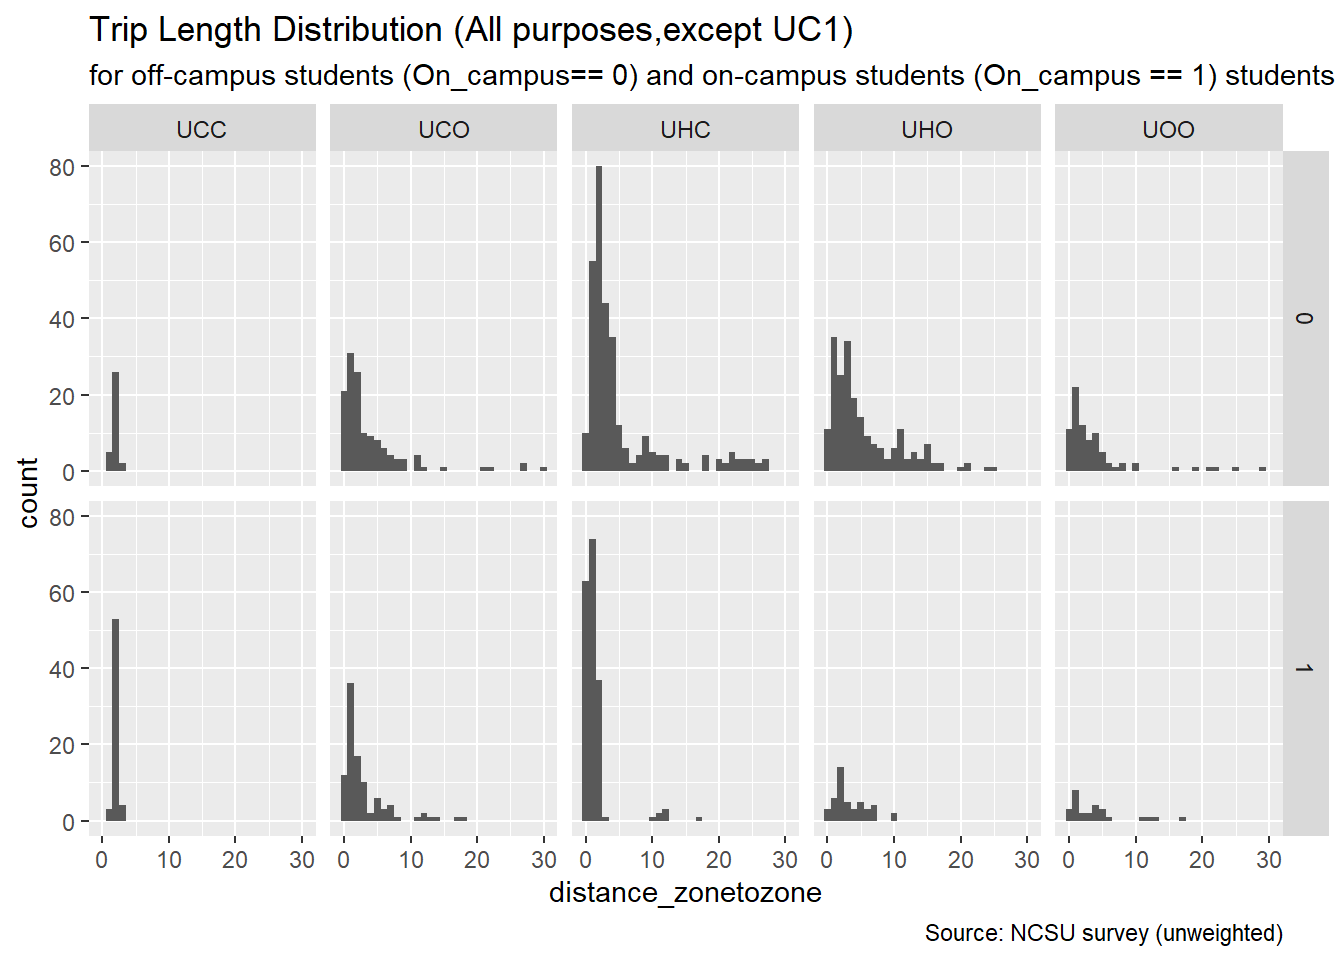
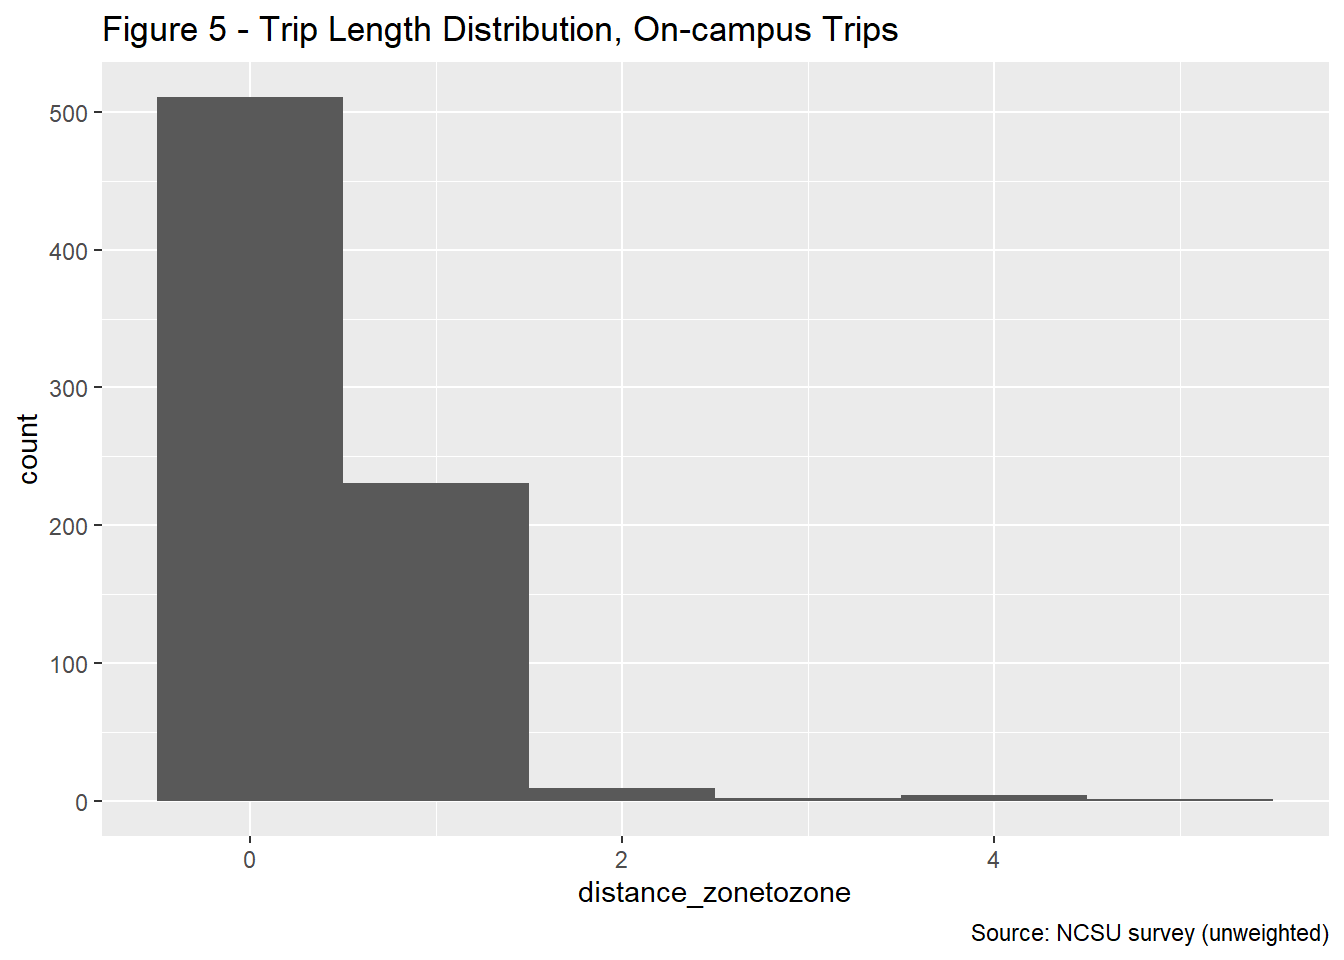
documentation update

diff --git a/docs/university.html b/docs/university.html
@@ -11,7 +11,7 @@
 
 <meta name="author" content="Caliper Corporation" />
 
-<meta name="date" content="2022-01-21" />
+<meta name="date" content="2022-01-25" />
 
 <title>University</title>
 
@@ -414,7 +414,7 @@ div.tocify {
 
 <h1 class="title toc-ignore">University</h1>
 <h4 class="author">Caliper Corporation</h4>
-<h4 class="date">January 21, 2022</h4>
+<h4 class="date">January 25, 2022</h4>
 
 </div>
 
@@ -435,7 +435,7 @@ div.tocify {
 </li>
 <li>University student Other-Other (Other-to-Other or UOO)</li>
 </ul>
-<p>The structure fully segments these trip purposes by on- and off-campus students. On-campus students are expected to make more trips, with many of those trips expected to start and end on campus. On-campus students are more likely to be undergraduate students who are enrolled at the university full-time. Graduate students are more likely to reside off-campus.</p>
+<p>The structure segments the home-based trip purposes, Home-Campus and Home-Other, by on- and off-campus students. On-campus students are expected to make more trips, with many of those trips expected to start and end on campus. On-campus students are more likely to be undergraduate students who are enrolled at the university full-time. Graduate students are more likely to reside off-campus.</p>
 <p>The first model step is <a href="https://tfresource.org/topics/Trip_Generation.html">trip generation</a>, which estimates the number of trips by market segment and purpose as a function of observed land use characteristics. The second model step is trip distribution, which uses a common <a href="https://tfresource.org/topics/Trip_distribution.html">gravity formulation</a> with distance as the measure of impedance. A <a href="https://tfresource.org/topics/Mode_choice.html">multinomial logit mode choice model</a> is then used to segment trips by travel mode. Time of day or “diurnal” factors are used to segment trips by time and day and convert the outcomes from production-attraction to origin-destination format. The university trips are then combined with trips from other model components prior to carrying out roadway and transit assignment.</p>
 <p>An innovative feature of the model design is the generation step for the Other-to-Other trip purpose. To maintain consistency across travel model, these trips are generated directly from the Home-based Other and Campus-based Other trip ends. The generation step is mode specific. For example, if all the Home-based Other and Campus-based Other trips select automobile, then only automobile Other-to-Other trips will be generated.</p>
 <p>The balance of this document first specifies each model component, presenting empirical evidence for each specification. In cases where insufficient data is available for the statistical estimation of model coefficients, coefficients are asserted, based on evidence for other travel purposes. For these asserted models, calibration targets are developed to guide the adjustment of constants to match observed outcomes.</p>
@@ -598,7 +598,7 @@ Origin
 </tr>
 </tbody>
 </table>
-<p>Figure 1 shows the average number of trips per student per day for the two home-based trip purposes for students residing on-campus and off-campus, based on the raw NCSU survey data. Figure 2 shows the average number of trips per student for the three campus-based trip purposes. For most trip purpose, the distribution is skewed to the right, with most students making few trips and a few students making many trips.</p>
+<p>Figure 1 shows the average number of trips per student per day for the two home-based trip purposes for students residing on-campus and off-campus, based on the raw NCSU survey data. Figure 2 shows the average number of trips per student for the three campus-based trip purposes. For most trip purposes, the distribution is skewed to the right, with most students making few trips and a few students making many trips. Trip rates tend to be higher for on-campus trips than for other trip purposes. On-campus trips also tend to be shorter than trip made for other purposes as shown below in the trip distribution section.</p>
 <p><img src="university_files/figure-html/histogram-1.png" width="672" /><img src="university_files/figure-html/histogram-2.png" width="672" /></p>
 <p>To develop production rates, two methods were explored/discussed: cross-classification and regression. Explanatory variables in regression models could include student characteristics such as class status (undergraduate and graduate), on and/or off-campus employment, credit hours (full-time or part-time), and car availability. These variables were expected, and/or shown by other research, to affect university trip production rates. However, using these variables would require that forecast year socio-economic datasets and/or upstream model steps included these variables, which is not currently expected. We therefore used cross-classification techniques, as discussed below.</p>
 <p>As part of the cross-classification approach, daily trips per student reported in the NCSU survey were classified based on the following criteria:</p>
@@ -1156,7 +1156,7 @@ Service Employment (Low)
 <div id="regression-models" class="section level4">
 <h4>Regression Models</h4>
 <p>The regression models were estimated for each purpose using a dataset that includes all TAZs for which the survey included trip attractions, of any purpose. The TAZs that do not have any trip attractions in the survey were excluded from the dataset used for model estimation.</p>
-<p>The Campus-other attraction model explains the number of trip attractions at the TAZ level based on the number of the students residing in the TAZ and the number of retail jobs in the TAZ. The coefficients have the expected signs.</p>
+<p>The Campus-other attraction model explains the number of trip attractions at the TAZ level based on the number of the students residing in the TAZ and the number of retail jobs in the TAZ. The coefficients have the correct expected signs.</p>
 <div id="campus-other-trip-attractions" class="section level5">
 <h5>Campus-Other Trip Attractions</h5>
 <table class="table" style="width: auto !important; margin-left: auto; margin-right: auto;">
@@ -1401,159 +1401,157 @@ NA
 </div>
 <div id="trip-distribution" class="section level2">
 <h2>Trip Distribution</h2>
-<p>The second step of the university model development process is to develop a trip distribution model. In this step, the TAZ level productions and attractions estimated in the trip generation step are allocated to TAZ pairs. The allocation is based on a gravity model that takes into account the distance between each of the TAZ pairs.</p>
-<p>A distance based gravity model is used to distribute the university trips from production zones to attraction zones. The specification of a gravity model is shown below:</p>
+<p>The second step of the University Model development process is to develop a trip distribution model. In this step, the TAZ level productions and attractions estimated in the trip generation step are allocated to TAZ pairs. The allocation is based on a gravity model that takes into account the distance between each of the TAZ pairs.</p>
+<p>A distance-based gravity model is used to distribute the university trips from production zones to attraction zones. The specification of a gravity model is shown below:</p>
 <p>T_ij = (P_i × A_j) / F_ij</p>
 <p>where T_ij denote the trips from production zone i to attraction zone j, P represents the trip productions, A represents the trip attractions, F is a measure of the separation between the production and attraction zones called a friction factor.</p>
-<p>Following standard practice it was assumed that the friction factors are a function of highway travel distance and that they follow a gamma distribution, as below:</p>
+<p>Following standard practice, it was assumed that the friction factors are a function of highway travel distance and that they follow a gamma distribution, as below:</p>
 <p>F(d) = α × d^(-β) × e^(-θd)</p>
-<p>For simplification, same gamma distribution is used for all university trip purpose, with α, β and θ as 5, 1 and 0.1 respectively.</p>
-<p>The NCSU survey provides information about the length of existing home-based and campus-based trips by NCSU students. The trip start and end location information from the survey was mapped to the model’s TAZs. The trip lengths presented in Figures 3 through 5 represent the distance between the centroids of the origin TAZ and the destination TAZ based on the highway skims. Figure 3 shows that most Home-Campus trips are relatively short distance but that there are some off-campus students who live further away from campus. Home-based trips by off-campus students are longer than home-based trips by on-campus students. Figure 4 shows that campus-based trips tend to be relatively short distance as well. Figure 5 shows that on-campus trips have both ends are within the same TAZ or within TAZs that are very near to each other. These observed trip lengths were used to validate the trip length produced with the gravity model as discussed below in the calibration section.</p>
+<p>For simplification and due to limited data, the same gamma distribution is used for all university trip purpose, with α, β and θ as 5, 1 and 0.1 respectively.</p>
+<p>The NCSU survey provides information about the length of existing home-based and campus-based trips by NCSU students. The trip start and end location information from the survey was mapped to the model’s TAZs. The trip lengths presented in Figures 3 through 5 represent the distance between the centroids of the origin TAZ and the destination TAZ based on the highway skims.</p>
 <div id="trip-length-distribution-from-the-ncsu-survey" class="section level3">
 <h3>Trip length distribution from the NCSU survey</h3>
-<p><img src="university_files/figure-html/unnamed-chunk-5-1.png" width="672" /><img src="university_files/figure-html/unnamed-chunk-5-2.png" width="672" /><img src="university_files/figure-html/unnamed-chunk-5-3.png" width="672" /></p>
-<div id="overview-trip-length-distribution-from-the-ncsu-survey-by-trip-purpose" class="section level4">
-<h4>Overview trip length distribution from the NCSU survey by trip purpose</h4>
+<p>Figure 3 shows that most Home-Campus trips have relatively short distance. The figure also highlights that there are a small number of off-campus students who live further away from campus. Figure 3 also displays for on-campus students making a home to campus trip that some trip lengths are over 10 miles, which could be an issue in geo-coding or a few students traveling to remote campuses/farms for coursework. Because of the relatively small sample, these anomalies were left in the analysis. <img src="university_files/figure-html/unnamed-chunk-5-1.png" width="672" /> Figure 4 shows that campus-based trips tend to be relatively short distance as well. Figure 4 also displays that, as expected, Campus-Other trips are longer than Campus-to-campus trips. <img src="university_files/figure-html/unnamed-chunk-6-1.png" width="672" /> Figure 5 shows that many On-campus trips have both ends within the same TAZ or within TAZs that are very near to each other. As expected, the .5 to 1 mile range dominates the on-campus trip lengths.</p>
+<p><img src="university_files/figure-html/unnamed-chunk-7-1.png" width="672" /></p>
+<div id="average-trip-length-from-the-ncsu-survey-by-trip-purpose" class="section level4">
+<h4>Average trip length from the NCSU survey by trip purpose</h4>
+An overview of the trip length distribution from the NCSU survey by trip purpose is displayed in tabular format. The trip length patterns for on- and off-campus students follow logical and anticipated patterns. On average, home-based trips by off-campus students are longer than home-based trip by on-campus students, which is expected. These observed trip lengths were used to validate the trip length produced with the gravity model as discussed below in the calibration section.
 <table class="table" style="width: auto !important; margin-left: auto; margin-right: auto;">
 <thead>
 <tr>
 <th style="text-align:left;">
-Distance
+Trip Purpose
+</th>
+<th style="text-align:left;">
+Home Location
 </th>
 <th style="text-align:right;">
-UC1
+Count
 </th>
 <th style="text-align:right;">
-UCC
-</th>
-<th style="text-align:right;">
-UCO
-</th>
-<th style="text-align:right;">
-UHC
-</th>
-<th style="text-align:right;">
-UHO
-</th>
-<th style="text-align:right;">
-UOO
+Average Distance
 </th>
 </tr>
 </thead>
 <tbody>
 <tr>
 <td style="text-align:left;">
-<ol style="list-style-type: decimal">
-<li>up to 2 miles
+Home-Campus
+</td>
+<td style="text-align:left;">
+Off-campus
 </td>
 <td style="text-align:right;">
-98.55
+306
 </td>
 <td style="text-align:right;">
-41.9
-</td>
-<td style="text-align:right;">
-56.09
-</td>
-<td style="text-align:right;">
-55.94
-</td>
-<td style="text-align:right;">
-28.2
-</td>
-<td style="text-align:right;">
-46.30
+5.41
 </td>
 </tr>
 <tr>
 <td style="text-align:left;">
-<ol start="2" style="list-style-type: decimal">
-<li>up to 5 miles
+Home-Campus
+</td>
+<td style="text-align:left;">
+On-campus
 </td>
 <td style="text-align:right;">
-1.45
+182
 </td>
 <td style="text-align:right;">
-58.1
-</td>
-<td style="text-align:right;">
-21.74
-</td>
-<td style="text-align:right;">
-26.84
-</td>
-<td style="text-align:right;">
-36.1
-</td>
-<td style="text-align:right;">
-35.19
+1.34
 </td>
 </tr>
 <tr>
 <td style="text-align:left;">
-<ol start="3" style="list-style-type: decimal">
-<li>up to 10 miles
+Home-Other
+</td>
+<td style="text-align:left;">
+Off-campus
 </td>
 <td style="text-align:right;">
-NA
+210
 </td>
 <td style="text-align:right;">
-NA
-</td>
-<td style="text-align:right;">
-14.35
-</td>
-<td style="text-align:right;">
-6.76
-</td>
-<td style="text-align:right;">
-18.0
-</td>
-<td style="text-align:right;">
-8.33
+5.82
 </td>
 </tr>
 <tr>
 <td style="text-align:left;">
-<ol start="4" style="list-style-type: decimal">
-<li>more than 10 miles
+Home-Other
+</td>
+<td style="text-align:left;">
+On-campus
 </td>
 <td style="text-align:right;">
-NA
+45
 </td>
 <td style="text-align:right;">
-NA
-</td>
-<td style="text-align:right;">
-7.83
-</td>
-<td style="text-align:right;">
-10.45
-</td>
-<td style="text-align:right;">
-17.6
-</td>
-<td style="text-align:right;">
-10.19
+3.35
 </td>
 </tr>
 </tbody>
-</table></li>
-</ol></li>
-</ol></li>
-</ol></li>
-</ol>
+</table>
+<table class="table" style="width: auto !important; margin-left: auto; margin-right: auto;">
+<thead>
+<tr>
+<th style="text-align:left;">
+Trip Purpose
+</th>
+<th style="text-align:right;">
+Count
+</th>
+<th style="text-align:right;">
+Average Distance
+</th>
+</tr>
+</thead>
+<tbody>
+<tr>
+<td style="text-align:left;">
+Campus-Other
+</td>
+<td style="text-align:right;">
+230
+</td>
+<td style="text-align:right;">
+3.407
+</td>
+</tr>
+<tr>
+<td style="text-align:left;">
+Campus-to-campus
+</td>
+<td style="text-align:right;">
+93
+</td>
+<td style="text-align:right;">
+2.039
+</td>
+</tr>
+<tr>
+<td style="text-align:left;">
+On-campus
+</td>
+<td style="text-align:right;">
+758
+</td>
+<td style="text-align:right;">
+0.572
+</td>
+</tr>
+</tbody>
+</table>
 </div>
 </div>
 </div>
 <div id="mode-choice" class="section level2">
 <h2>Mode Choice</h2>
-<p>The third step in the university model development process is the mode choice model. During the mode choice step, trips by zonal pair are distributed across available modes.</p>
-<p>The NCSU survey provides insight into the existing mode choice of NCSU students. Because the dataset was too limited to be used to estimate a mode choice model, time and cost coefficients were asserted. The asserted coefficients reflect typical sensitivities to time and cost for travelers with average incomes.</p>
-<p>The multinomial mode choice model explains the split between the university model’s four modes - walk, bike, transit and car based on time, cost and modal preferences. The NCSU survey data was used to develop the calibration target for the mode choice model for all four universities.</p>
+<p>The third step in the University Model development process is the mode choice model. During the mode choice step, trips by zonal pair are distributed across available modes. A multinomial mode choice model was used to split trips between the University Model’s four modes - walk, bike, transit and car based on time, cost and modal preferences.</p>
+<p>The NCSU survey provides insight into the existing mode choice of NCSU students. Because the dataset was too limited to be used to estimate a mode choice model, time and cost coefficients were asserted. The asserted coefficients reflect typical sensitivities to time and cost for travelers with average incomes. The NCSU survey data was used to develop the calibration target for the mode choice model for all four universities.</p>
 <div id="mode-split-from-ncsu-survey" class="section level3">
 <h3>Mode split from NCSU survey</h3>
-<p>The figure below shows the number of trips reported by the NCSU survey respondents for five of the model’s trip purposes. The modes are grouped into car, which is drive alone; carpool; bus; walk; bicycle and other. While drive alone is the most common mode, the graph shows relatively large numbers of bus trips (for Home-Campus and Campus-to-campus) and of walk trips (for Home-Campus and Campus-Other). The graph does not include On-campus trips, which are mostly walk trips.</p>
+<p>Figure 6 below shows the number of trips reported by the NCSU survey respondents for five of the model’s trip purposes. The modes are grouped into car, which is drive alone and carpool; bus; walk; bicycle and other. While drive alone is the most common mode, the graph shows relatively large numbers of bus trips (for Home-Campus and Campus-to-campus) and of walk trips (for Home-Campus and Campus-Other). The graph does not include On-campus trips, which are mostly walk trips.</p>
 <div id="sample-overview" class="section level4">
 <h4>Sample overview</h4>
 <p><img src="university_files/figure-html/oncampus_modesplit%20plot-1.png" width="672" /></p>
@@ -2063,36 +2061,36 @@ Cost
 </div>
 <div id="calibration" class="section level2">
 <h2>Calibration</h2>
-<p>This section compares a few different summaries for the university model outputs to the observed data from the NCSU survey.</p>
+<p>Calibration of the University Model is solely dependent upon the small sample size from the NCSU survey, as well as logic check reviews from local knowledge. This calibration section compares different summaries of the University Model outputs to the observed data from the NCSU survey.</p>
 <div id="trip-generation-1" class="section level3">
 <h3>Trip Generation</h3>
-<p>Trip generation results compared with the survey are within acceptable parameters as shown by the results of trips per enrollment.</p>
-<p>This is how the trips per enrollment compare for each campus:</p>
+<p>Trip generation results compared with the survey are within acceptable parameters as shown by the model’s trips per enrollment results. As expected, the NCSU results match the survey data and UNC’s trip rate is similar to NCSU’s. Given the similarities of campus structure for UNC and NCSU, this is logical. Duke and NCCU display differences in trips per enrollment from the NCSU survey.</p>
+<p>The trips per enrollment for each university are displayed in the figure below.</p>
 <p><img src="university_files/university-summary-figures/university_trips_per_student.png" /></p>
-<p>Note that the DUKE campus shows a higher rate (trips per student) in the model output. This is because for some of the university trip purposes, the trips production model is a function of campus building sqft for the TAZ. DUKE has a higher campus bldg sqft per student (see below), resulting in the higher overall trip rate.</p>
+<p>As noted, the model shows a higher rate (trips per student) for Duke than for NCSU. This is because for some of the university trip purposes, the trip production model is a function of campus building square feet in the TAZ. The average campus building square feet per student at Duke is higher than at NCSU (see below), resulting in the higher overall trip rate per student. Conversely, NCCU has a lower average campus building square feet per student than NCSU, resulting in a lower overall trip rate per student.</p>
 <p><img src="university_files/university-summary-figures/university_bldg_sqft_per_student.png" /></p>
 </div>
 <div id="trip-distribution-1" class="section level3">
 <h3>Trip Distribution</h3>
-<p>Simulated vs observed data shows similar patterns for the NCSU site as shown below. The other universities display similar pattern.</p>
-<div id="cummulative-distance-distribution" class="section level4">
-<h4>Cummulative Distance Distribution</h4>
-<p>The figure below compares the distance distribution of NCSU university home to campus trips:</p>
+<p>Simulated vs observed data shows similar patterns for NCSU as shown below. The other universities display a similar pattern.</p>
+<div id="cumulative-distance-distribution" class="section level4">
+<h4>Cumulative Distance Distribution</h4>
+<p>The figure below compares the distance distribution of NCSU Home-Campus trips. The simulated cumulative average trip length is slightly off when compared with the observed data. The trip length disparity is almost certainly due to how we were forced to come up with off-campus housing: by restricting it to address points within 10 miles. (see: <a href="https://caliper-corporation.github.io/TRMG2/tazs_and_se_data.html#Student_housing_(off-campus)" class="uri">https://caliper-corporation.github.io/TRMG2/tazs_and_se_data.html#Student_housing_(off-campus)</a>)</p>
 <p><img src="university_files/university-summary-figures/university_home_to_campus_dist_distribution.png" /></p>
 </div>
 <div id="average-trip-length" class="section level4">
 <h4>Average Trip Length</h4>
-<p>Here is how the average trip length by mode compares for simulated vs observed data:</p>
+<p>When looked at by mode, the average trip length compares extremely well for simulated versus observed data for NCSU.</p>
 <p><img src="university_files/university-summary-figures/university_avg_trip_length.png" /></p>
 </div>
 </div>
 <div id="mode-choice-1" class="section level3">
 <h3>Mode Choice</h3>
-<p>The final mode share for NCSU university trips matched to the observed data as shown below.</p>
+<p>The final simulated mode split for NCSU trips closely matches the observed mode split as shown below.</p>
 <p><img src="university_files/university-summary-figures/university_mode_share_ncsu.png" /></p>
-<p>A comparison of mode share for university trips by campus follows logical patterns. Note that the share for UNC campus is adjusted to bring down the auto share and a higher transit share based on the fact that UNC doesn’t allow parking on campus for students and therefore students have to walk or take transit. UNC transit is also one of the highest in the state per capita.</p>
+<p>A comparison of mode share for trips by university follows logical patterns. Note that the share for UNC is adjusted to bring down the auto share and a higher transit share based on the fact that UNC doesn’t allow parking on campus for students and therefore students have to walk or take transit. UNC transit is also one of the highest in the state per capita.</p>
 <p><img src="university_files/university-summary-figures/university_mode_share_by_campus.png" /></p>
-<p>Our model adjusted to match as close as possible the observed mode share from UNC survey (<a href="https://move.unc.edu/about/publications/commuter-survey/survey-results/">source</a>):</p>
+<p>Our model was adjusted to match as close as possible the observed mode share from UNC survey (<a href="https://move.unc.edu/about/publications/commuter-survey/survey-results/">source</a>):</p>
 <p><img src="university_files/university-summary-figures/unc_observed_mode_share.PNG" /></p>
 <p>The UNC specific adjustment was done by adding a negative utility for auto mode and positive utility for transit mode for university trips that are destined to UNC zones. UNC zones are identified as either positive <code>BuildingS_UNC</code> or positive <code>StudGQ_UNC</code>. The map below shows the identified zones for UNC mode share adjustment.</p>
 <p><img src="university_files/university-summary-figures/unc_zones_map_zoomed.png" /></p>
